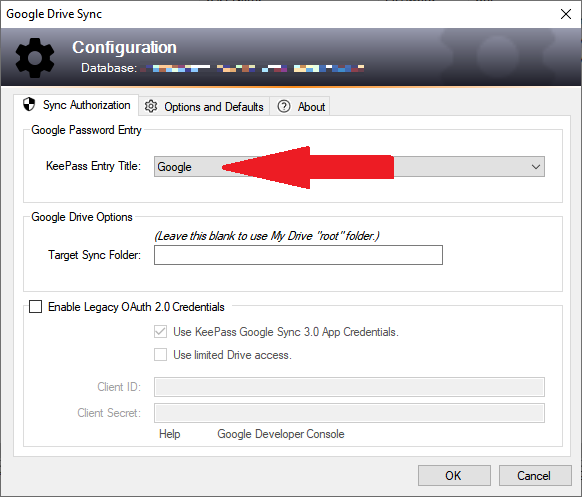
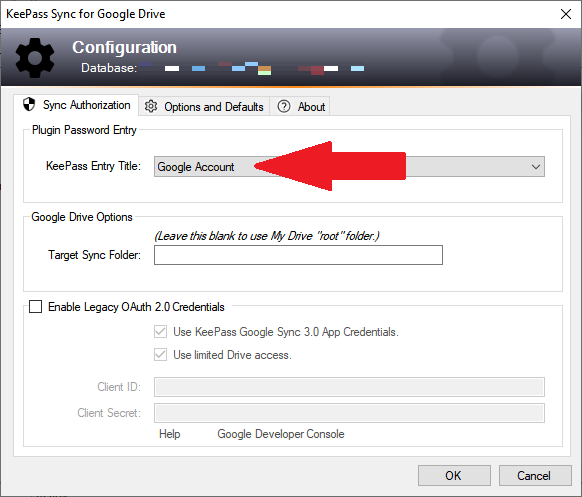
More branding and site image merging.

diff --git a/doc/README.md b/doc/README.md
@@ -1,4 +1,4 @@
-# KeePass Google Drive Sync
+# KeePass Sync for Google Drive™
 (formerly [*KeePass Google Sync*](https://sourceforge.net/projects/kp-googlesync/))
 
 
@@ -28,7 +28,7 @@ backup procedures!
 ## Primary Functions
 The plugin uses the name of the local database file when uploading/downloading
 to the local machine.  These primary functions are accessed with KeePass menu
-commands (Tools &#x21D2; Google Drive Sync): 
+commands (Tools &#x21D2; KeePass Sync for Google Drive): 
 * Synchronize: The copy of the database on Google Drive is downloaded to your
 local machine, *merged* with the currently open database via the KeePass
 "Synchronize with File" feature, then uploaded back to Google Drive, replacing
@@ -41,7 +41,7 @@ file until you explicitly do so.
 
 ## Secondary Functions
 These optional functions are accessed automatically or with keyboard commands,
-and configured with the plugin's configuration window (Tools &#x21D2; Google Drive Sync &#x21D2; Configure):
+and configured with the plugin's configuration window (Tools &#x21D2; KeePass Sync for Google Drive &#x21D2; Configure):
 * Auto-sync: Automates the Synchronize function to run when the database is
 saved to, and/or read from the local file via KeePass commands. To use this your
 database must be configured to synchronize "manually" via menu commands.
@@ -56,7 +56,7 @@ uploaded copy of the database file.
 ## Compatibility
 This is the 4th generation of the plugin, with updated Google Drive APIs,
 modern KeePass functionality, and updated .NET Framework security.  Functional
-compatibility with Google Sync Plugin 3.0 is fully maintained while 
+compatibility with *Google Sync Plugin 3.0* is fully maintained while 
 fixing issues with current Google authentication requirements.  
 
 If you currently synchronize successfully with the old plugin, this release
@@ -69,7 +69,7 @@ If you configured custom OAuth 2.0 credentials for your database with the old
 plugin, these will continue to work as before.
 
 Though not fully forward-compatible due to new KeePass facilities, the plugin
-can be safely installed side-by-side with Google Sync Plugin 3.0.
+can be safely installed side-by-side with *Google Sync Plugin 3.0*.
 
 ## Requirements
 * KeePass version 2.35 or later.
@@ -79,7 +79,7 @@ can be safely installed side-by-side with Google Sync Plugin 3.0.
 ## Installation (Normal)
 The [general instructions](https://keepass.info/help/v2/plugins.html) for
 installing plugins apply.  Download the .PLGX file from the [release page](https://github.com/walterpg/google-drive-sync/releases).
-For example, GoogleDriveSync-x.x.x.plgx, where 'x.x.x' is the release version. 
+For example, KeePassSyncForDrive-x.x.x.plgx, where 'x.x.x' is the release version. 
 There should also be a link to the current release on the repo's [README page](https://github.com/walterpg/google-drive-sync).
 
 1. Copy the .plgx file to the KeePass installation directory, for
@@ -92,7 +92,7 @@ When KeePass starts, a small delay occurs to initialize the plugin(s)
 that you have installed.  Verify that the plugin is installed by examining the
 KeePass Tools menu:
 
-![Google Drive Sync menu](img/menu.png)
+![KeePass Sync for Google Drive menu](../docs/assets/img/tools-menu.png)
 
 ## Installation (Portable)
 KeePass supports ["portable"](https://keepass.info/help/v2/setup.html#portable)
@@ -101,11 +101,11 @@ media such as USB sticks.  To use the plugin in portable mode, ensure that the
 machine meets the [minumum .NET Framework requirements](#requirements).
 
 To install the plugin in this mode, use the ".zip"
-file embedded the release download (e.g., GoogleDriveSync-4.0.1.zip).
+file embedded the release download (e.g., KeePassSyncForDrive-4.0.1.zip).
 
 1. Create a folder under the KeePass installation folder named 
-"GoogleDriveSync" (for example, if KeePass.exe is installed in a folder named
-"K:\sw\KeePass", create the folder "K:\sw\KeePass\GoogleDriveSync").
+"KeePassSync4Drive" (for example, if KeePass.exe is installed in a folder named
+"K:\sw\KeePass", create the folder "K:\sw\KeePass\KeePassSync4Drive").
 2. Extract the contents of the .zip file into the folder created in step 1.
 
 If you have previously used the "normal" plugin installation on a machine where
@@ -141,15 +141,15 @@ check it out!
 
 
 ## Synchronizing a Database
-Tools &#x21D2; Google Drive Sync &#x21D2; Sync with Drive.
+Tools &#x21D2; KeePass Sync for Google Drive &#x21D2; Sync with Drive.
 
-![Sync Command](img/sync.png)
+![Sync Command](../docs/assets/img/sync.png)
 
 The first time you sync a database, the plugin will search for an entry with
 its configuration data.  If such an entry is not found, the plugin offers to
 create one for you.
 
-![New Config](img/new-config.png)
+![New Config](../docs/assets/img/new-config.png)
 
 If you answer "Yes", or the plugin has already been [configured](#configuration),
 the plugin logs on to your Google Drive account.  If this is the first time you
@@ -160,7 +160,7 @@ and, if you have configured the KeePass entry with your Google login
 credentials, allows you to copy them with standard KeePass clipboard functions
 for the browser sign-in.
 
-![Authorization prompt with "classic" OAuth 2.0 Client ID](img/auth.png)
+![Authorization prompt with "classic" OAuth 2.0 Client ID](../docs/assets/img/auth.png)
 
 ## Obtaining Custom OAuth 2.0 Credentials
 The plugin allows you to authorize Google Drive access with personal OAuth
@@ -203,15 +203,15 @@ eligible entries as those with a URL field value containing the
 text ``accounts.google.com``.  Ensure that the entry you choose has
 such a value in the URL field, as shown.
 
-![KeePass entry showing URL=accounts.google.com](img/oauth-entry.png)
+![KeePass entry showing URL=accounts.google.com](../docs/assets/img/oauth-entry.png)
 
-Now open the Google Drive Sync configuration dialog (Tools &#x21D2; Google
-Drive Sync &#x21D2; Configuration). The drop-down box at the top of the dialog
+Now open the KeePass Sync for Google Drive configuration dialog (Tools &#x21D2; 
+KeePass Sync for Google Drive &#x21D2; Configuration). The drop-down box at the top of the dialog
 will contain all KeePass entries tagged with the URL=``accounts.google.com``
 field.  Select one entry in the drop-down list where you want to save the
 credentials.
 
-![Plugin Entry Configuration](img/config-entry.png)
+![Plugin Entry Configuration](../docs/assets/img/config-entry.png)
 
 To use custom OAuth 2.0 credentials, un-check "**Use built-in OAuth 2.0
 Client ID**", and enter the Client ID and Client Secret in the provided text
